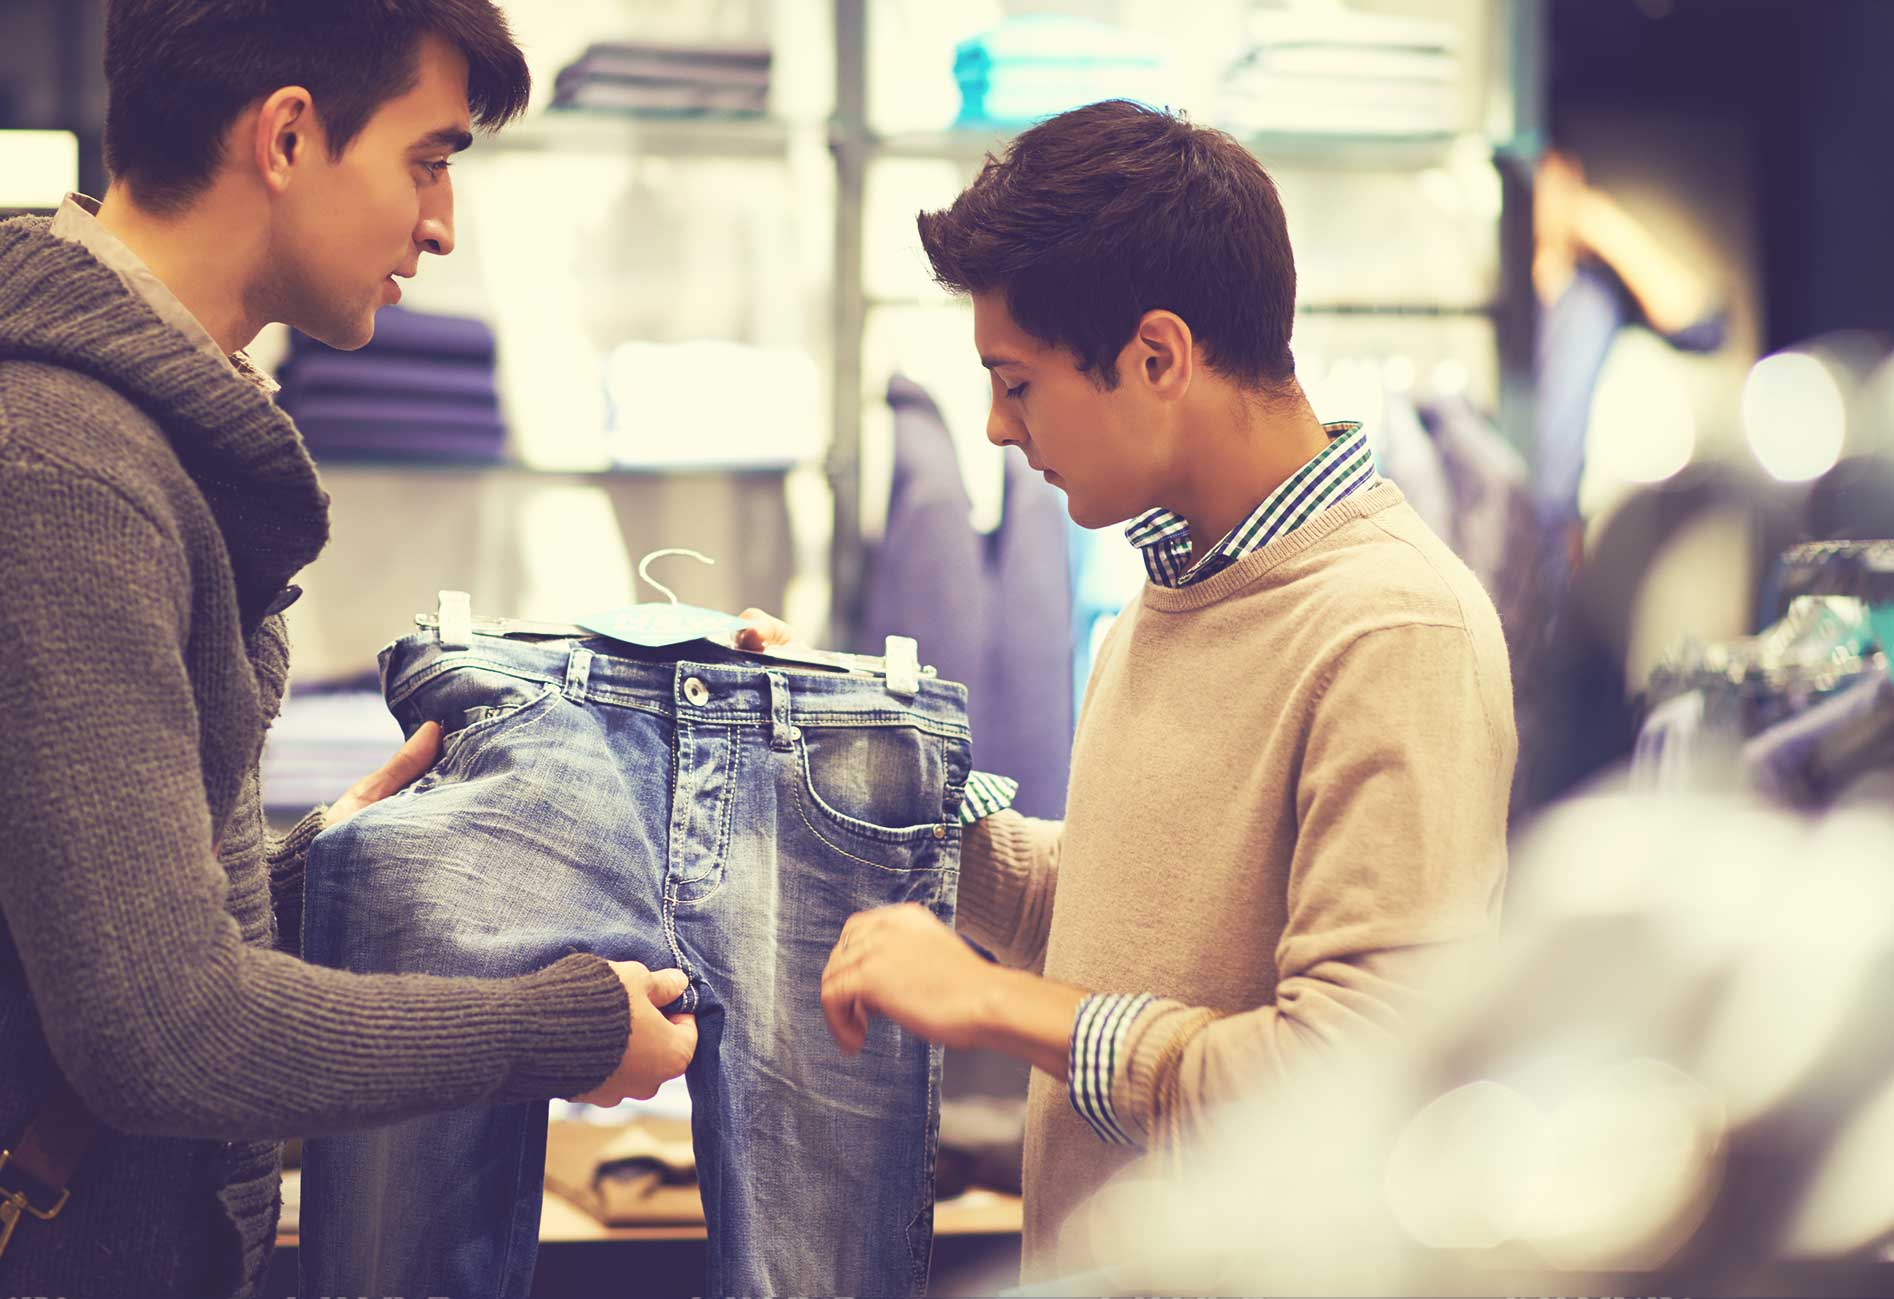
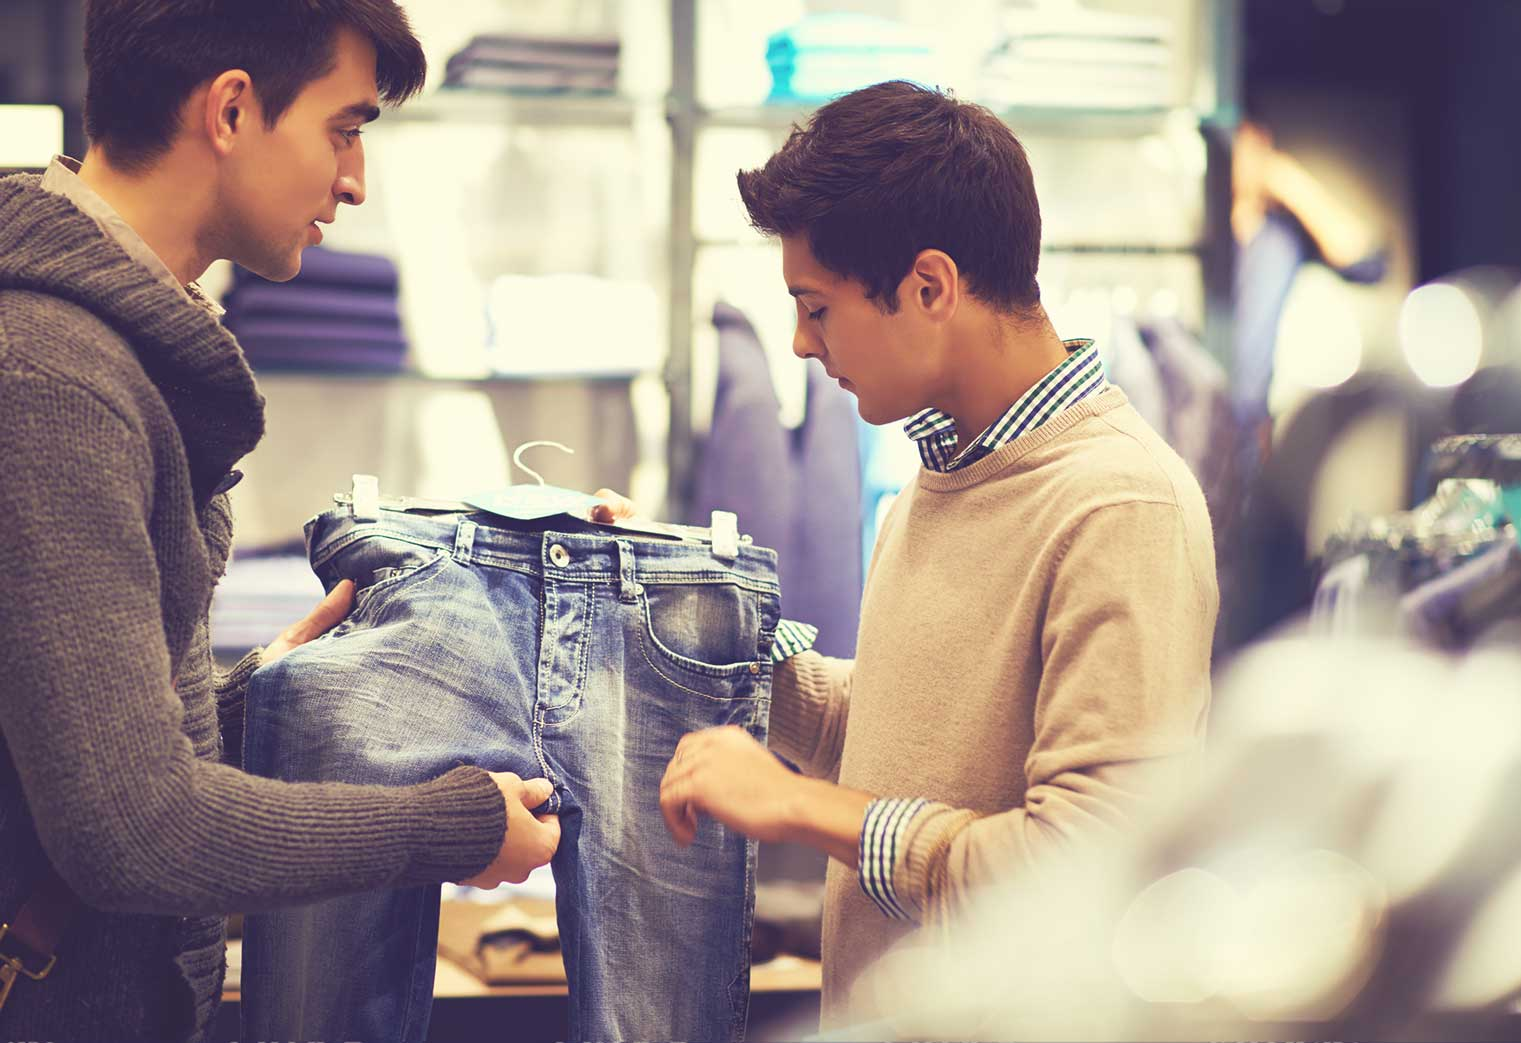
equalized 'hero-carousel' slides hight

diff --git a/css/style.css b/css/style.css
@@ -170,23 +170,19 @@ h3 {
 	
 }
 
-
-.hero-carousel {
+.item {
+	-webkit-background-size: cover;
+	background-size: cover;	
+	min-height: 760px;	
 }
 .hero-01-container {
 	background: url(../img/hero-01.jpg) no-repeat center top scroll;
-	-webkit-background-size: cover;
-	background-size: cover;	
 }
 .hero-02-container {
 	background: url(../img/hero-02.jpg) no-repeat center top scroll;
-	-webkit-background-size: cover;
-	background-size: cover;	
 }
 .hero-03-container {
 	background: url(../img/hero-03.jpg) no-repeat center top scroll;
-	-webkit-background-size: cover;
-	background-size: cover;	
 }
 .btn-default {
 	border-radius: 3px;
